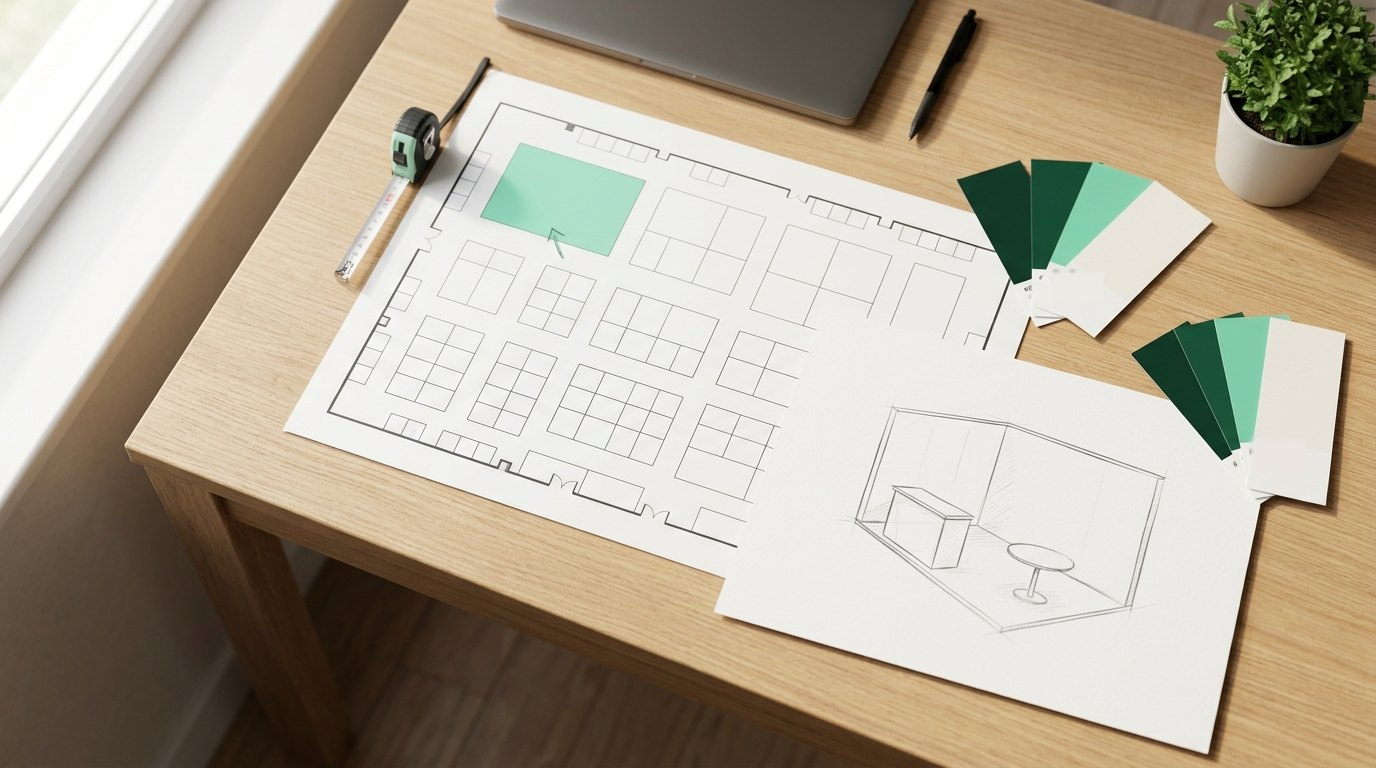
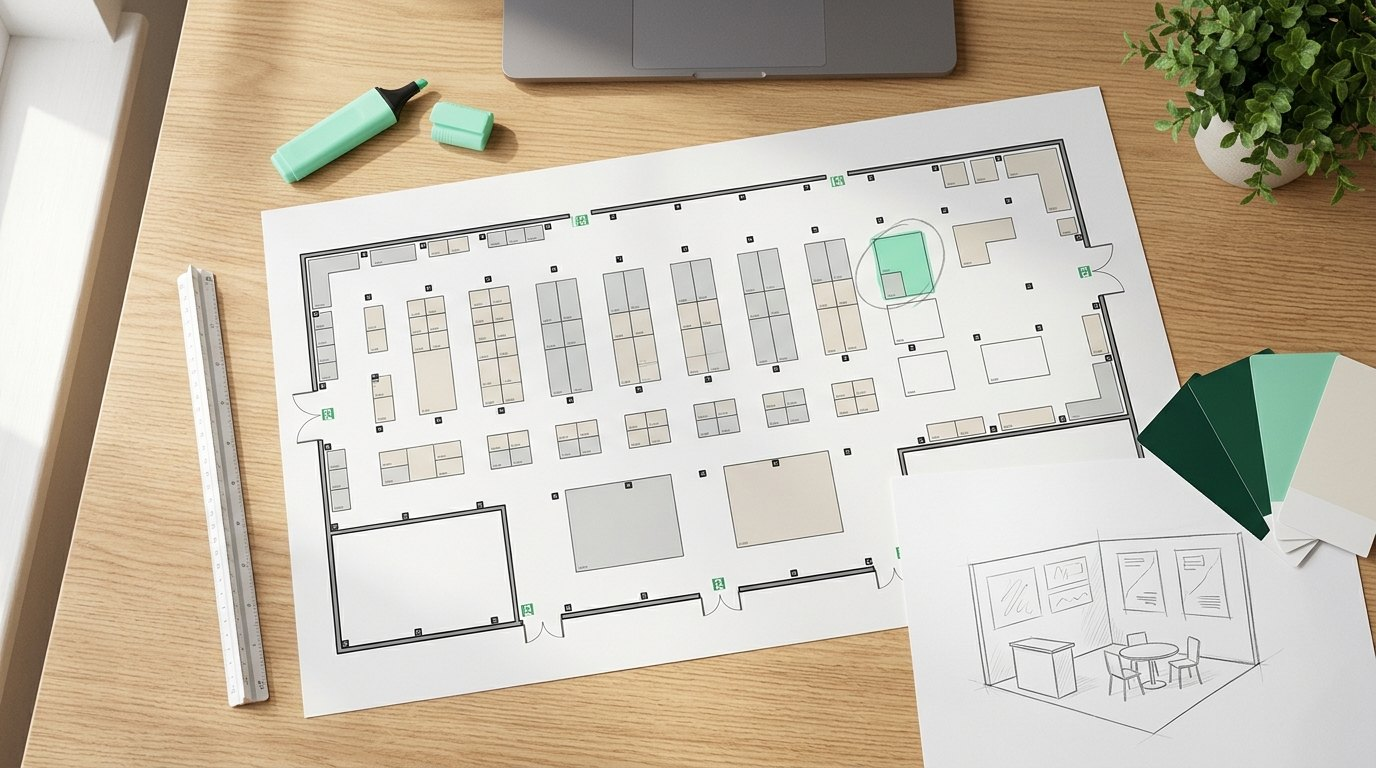
Brief guide: realistic hall plan image
Claude-Session: https://claude.ai/code/session_01B97nPoqq1BTtbztXedy2HT

diff --git a/guide-stand-brief.html b/guide-stand-brief.html
@@ -131,7 +131,7 @@ a:focus-visible,button:focus-visible,input:focus-visible{outline:2px solid #1370
 <article style="display: flex; flex-direction: column; gap: 32px; font-size: 18px; line-height: 1.7; max-width: 760px">
 <div style="background: #FFFFFF; border: 1px solid #E6E0D6; padding: 24px 28px"><span style="font-size: 12px; letter-spacing: .08em; font-weight: 700; color: #13704D">KEY TAKEAWAYS</span><ul style="margin: 12px 0 0; padding-left: 20px; display: flex; flex-direction: column; gap: 6px; font-size: 17px"><li>For a first quote, four things are enough: the fair, the stand size, the open sides and your&nbsp;email.</li><li>A good brief explains what visitors should do at your stand, not only what it should look&nbsp;like.</li><li>Share a budget range. It does not raise the price, it lets the design fit what you want to&nbsp;spend.</li><li>Send the organiser's floor plan and technical guidelines early. They decide what can be&nbsp;built.</li></ul></div>
 <section id="minimum" style="scroll-margin-top: 24px; display: flex; flex-direction: column; gap: 16px"><h2 style="margin: 0; font-size: 32px; line-height: 1.1; letter-spacing: -0.02em; font-weight: 600">What we need for a first&nbsp;quote</h2><p style="margin: 0">You don't need a finished brief to get started. With these four details we can check your space and come back with a first design and&nbsp;price:</p><div class="g2" style="display: grid; grid-template-columns: 1fr 1fr; gap: 12px"><div class="rv" style="background: #FFFFFF; border: 1px solid #D8D1C5; padding: 18px 20px; display: flex; flex-direction: column; gap: 4px"><svg class="bf-ic" viewBox="0 0 32 32" fill="none" stroke="currentColor" stroke-width="2" stroke-linejoin="round"><path d="M4 28V12l12-7 12 7v16z"/><path d="M11 28v-8h10v8"/></svg><span style="font-size: 13px; font-weight: 700; color: #13704D">01</span><b style="font-size: 17px">Fair and city</b><span style="font-size: 15px; line-height: 1.5; color: #5B5650">e.g. Hannover Messe,&nbsp;Hannover</span></div><div class="rv" style="background: #FFFFFF; border: 1px solid #D8D1C5; padding: 18px 20px; display: flex; flex-direction: column; gap: 4px"><svg class="bf-ic" viewBox="0 0 32 32" fill="none" stroke="currentColor" stroke-width="2" stroke-linejoin="round"><rect x="3" y="11" width="26" height="10" rx="1"/><path d="M8 11v4M13 11v6M18 11v4M23 11v6"/></svg><span style="font-size: 13px; font-weight: 700; color: #13704D">02</span><b style="font-size: 17px">Stand size</b><span style="font-size: 15px; line-height: 1.5; color: #5B5650">in m², e.g. 6 × 8&nbsp;m</span></div><div class="rv" style="background: #FFFFFF; border: 1px solid #D8D1C5; padding: 18px 20px; display: flex; flex-direction: column; gap: 4px"><svg class="bf-ic" viewBox="0 0 32 32" fill="none" stroke="currentColor" stroke-width="2" stroke-linecap="round" stroke-linejoin="round"><rect x="9" y="9" width="14" height="14" fill="#BDECD7" stroke="none"/><path d="M9 23V9h14" stroke="#1C1A17" stroke-width="3"/><path d="M16 31v-5M13.5 28.5 16 26l2.5 2.5M31 16h-5M28.5 13.5 26 16l2.5 2.5"/></svg><span style="font-size: 13px; font-weight: 700; color: #13704D">03</span><b style="font-size: 17px">Open sides</b><span style="font-size: 15px; line-height: 1.5; color: #5B5650">or simply the floor plan from your booking. <a href="guide-stand-brief.html" style="color: #13704D; font-weight: 600">What are open&nbsp;sides?</a></span></div><div class="rv" style="background: #FFFFFF; border: 1px solid #D8D1C5; padding: 18px 20px; display: flex; flex-direction: column; gap: 4px"><svg class="bf-ic" viewBox="0 0 32 32" fill="none" stroke="currentColor" stroke-width="2" stroke-linejoin="round"><rect x="3" y="7" width="26" height="18" rx="1"/><path d="M3 8l13 10 13-10"/></svg><span style="font-size: 13px; font-weight: 700; color: #13704D">04</span><b style="font-size: 17px">Your email</b><span style="font-size: 15px; line-height: 1.5; color: #5B5650">so we can send you the design and&nbsp;price</span></div></div><p style="margin: 0">Everything below makes the first design closer to what you have in mind, so fewer rounds of changes are needed. Missing details are fine. We sort them out&nbsp;together.</p></section>
-<section id="brief" style="scroll-margin-top: 24px; display: flex; flex-direction: column; gap: 16px; padding-top: 40px; border-top: 1px solid #D8D1C5"><h2 style="margin: 0; font-size: 32px; line-height: 1.1; letter-spacing: -0.02em; font-weight: 600">The full brief, step by&nbsp;step</h2><p style="margin: 0">A complete brief covers six areas. You can send them in any order, in an email, a document or a short&nbsp;call.</p><figure class="rv" style="margin: 0; display: flex; flex-direction: column; gap: 8px"><img src="img/guide-brief-desk.jpg" alt="Planning desk with a trade fair floor plan, a pencil sketch of a stand and brand colour swatches" width="1376" height="768" loading="lazy" style="display: block; width: 100%; height: auto; aspect-ratio: 16 / 8; object-fit: cover"><figcaption style="font-size: 14px; color: #5B5650">Floor plan, a clear goal and your brand colours: the start of a good&nbsp;brief.</figcaption></figure><div style="display: flex; flex-direction: column; gap: 12px"><div class="rv" style="background: #FFFFFF; border: 1px solid #D8D1C5; padding: 22px 24px; display: flex; flex-direction: column; gap: 12px"><div style="display: flex; gap: 14px; align-items: baseline"><span style="flex: none; width: 32px; height: 32px; border-radius: 50%; border: 1.5px solid #1C1A17; display: inline-flex; align-items: center; justify-content: center; font-size: 15px; font-weight: 600">1</span><span style="display: flex; flex-direction: column"><b style="font-size: 20px; line-height: 1.3">The fair and your&nbsp;space</b><span style="font-size: 15px; color: #5B5650">Where and when, and what the organiser&nbsp;allows.</span></span></div><div style="padding-left: 46px"><ul style="margin: 0; padding: 0; list-style: none; display: flex; flex-direction: column; gap: 10px; font-size: 16px; line-height: 1.55"><li style="display: flex; gap: 10px; align-items: flex-start"><svg width="18" height="18" viewBox="0 0 24 24" aria-hidden="true" style="flex: none; margin-top: 5px"><circle cx="12" cy="12" r="11" fill="#13704D"/><path d="M7 12.5l3.2 3.2L17 9" fill="none" stroke="#FFFFFF" stroke-width="2.4" stroke-linecap="round" stroke-linejoin="round"/></svg><span>Fair name, city and dates, plus the build-up and dismantling&nbsp;days</span></li><li style="display: flex; gap: 10px; align-items: flex-start"><svg width="18" height="18" viewBox="0 0 24 24" aria-hidden="true" style="flex: none; margin-top: 5px"><circle cx="12" cy="12" r="11" fill="#13704D"/><path d="M7 12.5l3.2 3.2L17 9" fill="none" stroke="#FFFFFF" stroke-width="2.4" stroke-linecap="round" stroke-linejoin="round"/></svg><span>Hall and stand&nbsp;number</span></li><li style="display: flex; gap: 10px; align-items: flex-start"><svg width="18" height="18" viewBox="0 0 24 24" aria-hidden="true" style="flex: none; margin-top: 5px"><circle cx="12" cy="12" r="11" fill="#13704D"/><path d="M7 12.5l3.2 3.2L17 9" fill="none" stroke="#FFFFFF" stroke-width="2.4" stroke-linecap="round" stroke-linejoin="round"/></svg><span>Stand size and open sides, or the floor plan from your&nbsp;booking</span></li><li style="display: flex; gap: 10px; align-items: flex-start"><svg width="18" height="18" viewBox="0 0 24 24" aria-hidden="true" style="flex: none; margin-top: 5px"><circle cx="12" cy="12" r="11" fill="#13704D"/><path d="M7 12.5l3.2 3.2L17 9" fill="none" stroke="#FFFFFF" stroke-width="2.4" stroke-linecap="round" stroke-linejoin="round"/></svg><span>The organiser's technical guidelines: maximum height, hanging points, pillars and approval&nbsp;deadlines</span></li></ul></div></div><div class="rv" style="background: #FFFFFF; border: 1px solid #D8D1C5; padding: 22px 24px; display: flex; flex-direction: column; gap: 12px"><div style="display: flex; gap: 14px; align-items: baseline"><span style="flex: none; width: 32px; height: 32px; border-radius: 50%; border: 1.5px solid #1C1A17; display: inline-flex; align-items: center; justify-content: center; font-size: 15px; font-weight: 600">2</span><span style="display: flex; flex-direction: column"><b style="font-size: 20px; line-height: 1.3">What the stand should&nbsp;do</b><span style="font-size: 15px; color: #5B5650">The most important part of the&nbsp;brief.</span></span></div><div style="padding-left: 46px"><ul style="margin: 0; padding: 0; list-style: none; display: flex; flex-direction: column; gap: 10px; font-size: 16px; line-height: 1.55"><li style="display: flex; gap: 10px; align-items: flex-start"><svg width="18" height="18" viewBox="0 0 24 24" aria-hidden="true" style="flex: none; margin-top: 5px"><circle cx="12" cy="12" r="11" fill="#13704D"/><path d="M7 12.5l3.2 3.2L17 9" fill="none" stroke="#FFFFFF" stroke-width="2.4" stroke-linecap="round" stroke-linejoin="round"/></svg><span>Who you want to reach: existing clients, new leads, distributors or&nbsp;press</span></li><li style="display: flex; gap: 10px; align-items: flex-start"><svg width="18" height="18" viewBox="0 0 24 24" aria-hidden="true" style="flex: none; margin-top: 5px"><circle cx="12" cy="12" r="11" fill="#13704D"/><path d="M7 12.5l3.2 3.2L17 9" fill="none" stroke="#FFFFFF" stroke-width="2.4" stroke-linecap="round" stroke-linejoin="round"/></svg><span>What visitors should do: book a meeting, try a product, watch a demo, leave their&nbsp;details</span></li><li style="display: flex; gap: 10px; align-items: flex-start"><svg width="18" height="18" viewBox="0 0 24 24" aria-hidden="true" style="flex: none; margin-top: 5px"><circle cx="12" cy="12" r="11" fill="#13704D"/><path d="M7 12.5l3.2 3.2L17 9" fill="none" stroke="#FFFFFF" stroke-width="2.4" stroke-linecap="round" stroke-linejoin="round"/></svg><span>One or two things visitors should remember after they&nbsp;leave</span></li><li style="display: flex; gap: 10px; align-items: flex-start"><svg width="18" height="18" viewBox="0 0 24 24" aria-hidden="true" style="flex: none; margin-top: 5px"><circle cx="12" cy="12" r="11" fill="#13704D"/><path d="M7 12.5l3.2 3.2L17 9" fill="none" stroke="#FFFFFF" stroke-width="2.4" stroke-linecap="round" stroke-linejoin="round"/></svg><span>How many people will work on the stand at the same&nbsp;time</span></li></ul></div></div><div class="rv" style="background: #FFFFFF; border: 1px solid #D8D1C5; padding: 22px 24px; display: flex; flex-direction: column; gap: 12px"><div style="display: flex; gap: 14px; align-items: baseline"><span style="flex: none; width: 32px; height: 32px; border-radius: 50%; border: 1.5px solid #1C1A17; display: inline-flex; align-items: center; justify-content: center; font-size: 15px; font-weight: 600">3</span><span style="display: flex; flex-direction: column"><b style="font-size: 20px; line-height: 1.3">What the stand must&nbsp;hold</b><span style="font-size: 15px; color: #5B5650">The practical&nbsp;list.</span></span></div><div style="padding-left: 46px"><ul style="margin: 0; padding: 0; list-style: none; display: flex; flex-direction: column; gap: 10px; font-size: 16px; line-height: 1.55"><li style="display: flex; gap: 10px; align-items: flex-start"><svg width="18" height="18" viewBox="0 0 24 24" aria-hidden="true" style="flex: none; margin-top: 5px"><circle cx="12" cy="12" r="11" fill="#13704D"/><path d="M7 12.5l3.2 3.2L17 9" fill="none" stroke="#FFFFFF" stroke-width="2.4" stroke-linecap="round" stroke-linejoin="round"/></svg><span>Products to show, with sizes and weights, especially heavy or large&nbsp;ones</span></li><li style="display: flex; gap: 10px; align-items: flex-start"><svg width="18" height="18" viewBox="0 0 24 24" aria-hidden="true" style="flex: none; margin-top: 5px"><circle cx="12" cy="12" r="11" fill="#13704D"/><path d="M7 12.5l3.2 3.2L17 9" fill="none" stroke="#FFFFFF" stroke-width="2.4" stroke-linecap="round" stroke-linejoin="round"/></svg><span>Screens, counters, shelves or display&nbsp;cases</span></li><li style="display: flex; gap: 10px; align-items: flex-start"><svg width="18" height="18" viewBox="0 0 24 24" aria-hidden="true" style="flex: none; margin-top: 5px"><circle cx="12" cy="12" r="11" fill="#13704D"/><path d="M7 12.5l3.2 3.2L17 9" fill="none" stroke="#FFFFFF" stroke-width="2.4" stroke-linecap="round" stroke-linejoin="round"/></svg><span>Meeting area: open tables or a closed room, and for how many&nbsp;people</span></li><li style="display: flex; gap: 10px; align-items: flex-start"><svg width="18" height="18" viewBox="0 0 24 24" aria-hidden="true" style="flex: none; margin-top: 5px"><circle cx="12" cy="12" r="11" fill="#13704D"/><path d="M7 12.5l3.2 3.2L17 9" fill="none" stroke="#FFFFFF" stroke-width="2.4" stroke-linecap="round" stroke-linejoin="round"/></svg><span>Storage room, coat space, a small kitchen or a&nbsp;bar</span></li></ul></div></div><div class="rv" style="background: #FFFFFF; border: 1px solid #D8D1C5; padding: 22px 24px; display: flex; flex-direction: column; gap: 12px"><div style="display: flex; gap: 14px; align-items: baseline"><span style="flex: none; width: 32px; height: 32px; border-radius: 50%; border: 1.5px solid #1C1A17; display: inline-flex; align-items: center; justify-content: center; font-size: 15px; font-weight: 600">4</span><span style="display: flex; flex-direction: column"><b style="font-size: 20px; line-height: 1.3">Your&nbsp;brand</b><span style="font-size: 15px; color: #5B5650">So the stand looks like&nbsp;you.</span></span></div><div style="padding-left: 46px"><ul style="margin: 0; padding: 0; list-style: none; display: flex; flex-direction: column; gap: 10px; font-size: 16px; line-height: 1.55"><li style="display: flex; gap: 10px; align-items: flex-start"><svg width="18" height="18" viewBox="0 0 24 24" aria-hidden="true" style="flex: none; margin-top: 5px"><circle cx="12" cy="12" r="11" fill="#13704D"/><path d="M7 12.5l3.2 3.2L17 9" fill="none" stroke="#FFFFFF" stroke-width="2.4" stroke-linecap="round" stroke-linejoin="round"/></svg><span>Logo as a vector file (AI, EPS, SVG or&nbsp;PDF)</span></li><li style="display: flex; gap: 10px; align-items: flex-start"><svg width="18" height="18" viewBox="0 0 24 24" aria-hidden="true" style="flex: none; margin-top: 5px"><circle cx="12" cy="12" r="11" fill="#13704D"/><path d="M7 12.5l3.2 3.2L17 9" fill="none" stroke="#FFFFFF" stroke-width="2.4" stroke-linecap="round" stroke-linejoin="round"/></svg><span>Brand guidelines with colours and&nbsp;fonts</span></li><li style="display: flex; gap: 10px; align-items: flex-start"><svg width="18" height="18" viewBox="0 0 24 24" aria-hidden="true" style="flex: none; margin-top: 5px"><circle cx="12" cy="12" r="11" fill="#13704D"/><path d="M7 12.5l3.2 3.2L17 9" fill="none" stroke="#FFFFFF" stroke-width="2.4" stroke-linecap="round" stroke-linejoin="round"/></svg><span>Photos and key messages you want on the&nbsp;walls</span></li><li style="display: flex; gap: 10px; align-items: flex-start"><svg width="18" height="18" viewBox="0 0 24 24" aria-hidden="true" style="flex: none; margin-top: 5px"><circle cx="12" cy="12" r="11" fill="#13704D"/><path d="M7 12.5l3.2 3.2L17 9" fill="none" stroke="#FFFFFF" stroke-width="2.4" stroke-linecap="round" stroke-linejoin="round"/></svg><span>Photos of past stands, with what you liked and what you&nbsp;didn't</span></li></ul></div></div><div class="rv" style="background: #FFFFFF; border: 1px solid #D8D1C5; padding: 22px 24px; display: flex; flex-direction: column; gap: 12px"><div style="display: flex; gap: 14px; align-items: baseline"><span style="flex: none; width: 32px; height: 32px; border-radius: 50%; border: 1.5px solid #1C1A17; display: inline-flex; align-items: center; justify-content: center; font-size: 15px; font-weight: 600">5</span><span style="display: flex; flex-direction: column"><b style="font-size: 20px; line-height: 1.3">Budget</b><span style="font-size: 15px; color: #5B5650">A range is&nbsp;enough.</span></span></div><div style="padding-left: 46px"><ul style="margin: 0; padding: 0; list-style: none; display: flex; flex-direction: column; gap: 10px; font-size: 16px; line-height: 1.55"><li style="display: flex; gap: 10px; align-items: flex-start"><svg width="18" height="18" viewBox="0 0 24 24" aria-hidden="true" style="flex: none; margin-top: 5px"><circle cx="12" cy="12" r="11" fill="#13704D"/><path d="M7 12.5l3.2 3.2L17 9" fill="none" stroke="#FFFFFF" stroke-width="2.4" stroke-linecap="round" stroke-linejoin="round"/></svg><span>A budget range for the whole&nbsp;stand</span></li><li style="display: flex; gap: 10px; align-items: flex-start"><svg width="18" height="18" viewBox="0 0 24 24" aria-hidden="true" style="flex: none; margin-top: 5px"><circle cx="12" cy="12" r="11" fill="#13704D"/><path d="M7 12.5l3.2 3.2L17 9" fill="none" stroke="#FFFFFF" stroke-width="2.4" stroke-linecap="round" stroke-linejoin="round"/></svg><span>What it should cover, for example design, build, graphics, transport and&nbsp;furniture</span></li></ul></div></div><div class="rv" style="background: #FFFFFF; border: 1px solid #D8D1C5; padding: 22px 24px; display: flex; flex-direction: column; gap: 12px"><div style="display: flex; gap: 14px; align-items: baseline"><span style="flex: none; width: 32px; height: 32px; border-radius: 50%; border: 1.5px solid #1C1A17; display: inline-flex; align-items: center; justify-content: center; font-size: 15px; font-weight: 600">6</span><span style="display: flex; flex-direction: column"><b style="font-size: 20px; line-height: 1.3">Dates and&nbsp;decisions</b><span style="font-size: 15px; color: #5B5650">So nothing is&nbsp;late.</span></span></div><div style="padding-left: 46px"><ul style="margin: 0; padding: 0; list-style: none; display: flex; flex-direction: column; gap: 10px; font-size: 16px; line-height: 1.55"><li style="display: flex; gap: 10px; align-items: flex-start"><svg width="18" height="18" viewBox="0 0 24 24" aria-hidden="true" style="flex: none; margin-top: 5px"><circle cx="12" cy="12" r="11" fill="#13704D"/><path d="M7 12.5l3.2 3.2L17 9" fill="none" stroke="#FFFFFF" stroke-width="2.4" stroke-linecap="round" stroke-linejoin="round"/></svg><span>When you need the first&nbsp;design</span></li><li style="display: flex; gap: 10px; align-items: flex-start"><svg width="18" height="18" viewBox="0 0 24 24" aria-hidden="true" style="flex: none; margin-top: 5px"><circle cx="12" cy="12" r="11" fill="#13704D"/><path d="M7 12.5l3.2 3.2L17 9" fill="none" stroke="#FFFFFF" stroke-width="2.4" stroke-linecap="round" stroke-linejoin="round"/></svg><span>Who approves the design on your&nbsp;side</span></li><li style="display: flex; gap: 10px; align-items: flex-start"><svg width="18" height="18" viewBox="0 0 24 24" aria-hidden="true" style="flex: none; margin-top: 5px"><circle cx="12" cy="12" r="11" fill="#13704D"/><path d="M7 12.5l3.2 3.2L17 9" fill="none" stroke="#FFFFFF" stroke-width="2.4" stroke-linecap="round" stroke-linejoin="round"/></svg><span>Organiser deadlines for stand drawings, electrical orders and other&nbsp;services</span></li></ul></div></div></div></section>
+<section id="brief" style="scroll-margin-top: 24px; display: flex; flex-direction: column; gap: 16px; padding-top: 40px; border-top: 1px solid #D8D1C5"><h2 style="margin: 0; font-size: 32px; line-height: 1.1; letter-spacing: -0.02em; font-weight: 600">The full brief, step by&nbsp;step</h2><p style="margin: 0">A complete brief covers six areas. You can send them in any order, in an email, a document or a short&nbsp;call.</p><figure class="rv" style="margin: 0; display: flex; flex-direction: column; gap: 8px"><img src="img/guide-brief-desk.jpg" alt="Planning desk with a printed trade fair hall plan, a marked corner stand, a pencil sketch of the stand and brand colour swatches" width="1376" height="768" loading="lazy" style="display: block; width: 100%; height: auto; aspect-ratio: 16 / 8; object-fit: cover"><figcaption style="font-size: 14px; color: #5B5650">Floor plan, a clear goal and your brand colours: the start of a good&nbsp;brief.</figcaption></figure><div style="display: flex; flex-direction: column; gap: 12px"><div class="rv" style="background: #FFFFFF; border: 1px solid #D8D1C5; padding: 22px 24px; display: flex; flex-direction: column; gap: 12px"><div style="display: flex; gap: 14px; align-items: baseline"><span style="flex: none; width: 32px; height: 32px; border-radius: 50%; border: 1.5px solid #1C1A17; display: inline-flex; align-items: center; justify-content: center; font-size: 15px; font-weight: 600">1</span><span style="display: flex; flex-direction: column"><b style="font-size: 20px; line-height: 1.3">The fair and your&nbsp;space</b><span style="font-size: 15px; color: #5B5650">Where and when, and what the organiser&nbsp;allows.</span></span></div><div style="padding-left: 46px"><ul style="margin: 0; padding: 0; list-style: none; display: flex; flex-direction: column; gap: 10px; font-size: 16px; line-height: 1.55"><li style="display: flex; gap: 10px; align-items: flex-start"><svg width="18" height="18" viewBox="0 0 24 24" aria-hidden="true" style="flex: none; margin-top: 5px"><circle cx="12" cy="12" r="11" fill="#13704D"/><path d="M7 12.5l3.2 3.2L17 9" fill="none" stroke="#FFFFFF" stroke-width="2.4" stroke-linecap="round" stroke-linejoin="round"/></svg><span>Fair name, city and dates, plus the build-up and dismantling&nbsp;days</span></li><li style="display: flex; gap: 10px; align-items: flex-start"><svg width="18" height="18" viewBox="0 0 24 24" aria-hidden="true" style="flex: none; margin-top: 5px"><circle cx="12" cy="12" r="11" fill="#13704D"/><path d="M7 12.5l3.2 3.2L17 9" fill="none" stroke="#FFFFFF" stroke-width="2.4" stroke-linecap="round" stroke-linejoin="round"/></svg><span>Hall and stand&nbsp;number</span></li><li style="display: flex; gap: 10px; align-items: flex-start"><svg width="18" height="18" viewBox="0 0 24 24" aria-hidden="true" style="flex: none; margin-top: 5px"><circle cx="12" cy="12" r="11" fill="#13704D"/><path d="M7 12.5l3.2 3.2L17 9" fill="none" stroke="#FFFFFF" stroke-width="2.4" stroke-linecap="round" stroke-linejoin="round"/></svg><span>Stand size and open sides, or the floor plan from your&nbsp;booking</span></li><li style="display: flex; gap: 10px; align-items: flex-start"><svg width="18" height="18" viewBox="0 0 24 24" aria-hidden="true" style="flex: none; margin-top: 5px"><circle cx="12" cy="12" r="11" fill="#13704D"/><path d="M7 12.5l3.2 3.2L17 9" fill="none" stroke="#FFFFFF" stroke-width="2.4" stroke-linecap="round" stroke-linejoin="round"/></svg><span>The organiser's technical guidelines: maximum height, hanging points, pillars and approval&nbsp;deadlines</span></li></ul></div></div><div class="rv" style="background: #FFFFFF; border: 1px solid #D8D1C5; padding: 22px 24px; display: flex; flex-direction: column; gap: 12px"><div style="display: flex; gap: 14px; align-items: baseline"><span style="flex: none; width: 32px; height: 32px; border-radius: 50%; border: 1.5px solid #1C1A17; display: inline-flex; align-items: center; justify-content: center; font-size: 15px; font-weight: 600">2</span><span style="display: flex; flex-direction: column"><b style="font-size: 20px; line-height: 1.3">What the stand should&nbsp;do</b><span style="font-size: 15px; color: #5B5650">The most important part of the&nbsp;brief.</span></span></div><div style="padding-left: 46px"><ul style="margin: 0; padding: 0; list-style: none; display: flex; flex-direction: column; gap: 10px; font-size: 16px; line-height: 1.55"><li style="display: flex; gap: 10px; align-items: flex-start"><svg width="18" height="18" viewBox="0 0 24 24" aria-hidden="true" style="flex: none; margin-top: 5px"><circle cx="12" cy="12" r="11" fill="#13704D"/><path d="M7 12.5l3.2 3.2L17 9" fill="none" stroke="#FFFFFF" stroke-width="2.4" stroke-linecap="round" stroke-linejoin="round"/></svg><span>Who you want to reach: existing clients, new leads, distributors or&nbsp;press</span></li><li style="display: flex; gap: 10px; align-items: flex-start"><svg width="18" height="18" viewBox="0 0 24 24" aria-hidden="true" style="flex: none; margin-top: 5px"><circle cx="12" cy="12" r="11" fill="#13704D"/><path d="M7 12.5l3.2 3.2L17 9" fill="none" stroke="#FFFFFF" stroke-width="2.4" stroke-linecap="round" stroke-linejoin="round"/></svg><span>What visitors should do: book a meeting, try a product, watch a demo, leave their&nbsp;details</span></li><li style="display: flex; gap: 10px; align-items: flex-start"><svg width="18" height="18" viewBox="0 0 24 24" aria-hidden="true" style="flex: none; margin-top: 5px"><circle cx="12" cy="12" r="11" fill="#13704D"/><path d="M7 12.5l3.2 3.2L17 9" fill="none" stroke="#FFFFFF" stroke-width="2.4" stroke-linecap="round" stroke-linejoin="round"/></svg><span>One or two things visitors should remember after they&nbsp;leave</span></li><li style="display: flex; gap: 10px; align-items: flex-start"><svg width="18" height="18" viewBox="0 0 24 24" aria-hidden="true" style="flex: none; margin-top: 5px"><circle cx="12" cy="12" r="11" fill="#13704D"/><path d="M7 12.5l3.2 3.2L17 9" fill="none" stroke="#FFFFFF" stroke-width="2.4" stroke-linecap="round" stroke-linejoin="round"/></svg><span>How many people will work on the stand at the same&nbsp;time</span></li></ul></div></div><div class="rv" style="background: #FFFFFF; border: 1px solid #D8D1C5; padding: 22px 24px; display: flex; flex-direction: column; gap: 12px"><div style="display: flex; gap: 14px; align-items: baseline"><span style="flex: none; width: 32px; height: 32px; border-radius: 50%; border: 1.5px solid #1C1A17; display: inline-flex; align-items: center; justify-content: center; font-size: 15px; font-weight: 600">3</span><span style="display: flex; flex-direction: column"><b style="font-size: 20px; line-height: 1.3">What the stand must&nbsp;hold</b><span style="font-size: 15px; color: #5B5650">The practical&nbsp;list.</span></span></div><div style="padding-left: 46px"><ul style="margin: 0; padding: 0; list-style: none; display: flex; flex-direction: column; gap: 10px; font-size: 16px; line-height: 1.55"><li style="display: flex; gap: 10px; align-items: flex-start"><svg width="18" height="18" viewBox="0 0 24 24" aria-hidden="true" style="flex: none; margin-top: 5px"><circle cx="12" cy="12" r="11" fill="#13704D"/><path d="M7 12.5l3.2 3.2L17 9" fill="none" stroke="#FFFFFF" stroke-width="2.4" stroke-linecap="round" stroke-linejoin="round"/></svg><span>Products to show, with sizes and weights, especially heavy or large&nbsp;ones</span></li><li style="display: flex; gap: 10px; align-items: flex-start"><svg width="18" height="18" viewBox="0 0 24 24" aria-hidden="true" style="flex: none; margin-top: 5px"><circle cx="12" cy="12" r="11" fill="#13704D"/><path d="M7 12.5l3.2 3.2L17 9" fill="none" stroke="#FFFFFF" stroke-width="2.4" stroke-linecap="round" stroke-linejoin="round"/></svg><span>Screens, counters, shelves or display&nbsp;cases</span></li><li style="display: flex; gap: 10px; align-items: flex-start"><svg width="18" height="18" viewBox="0 0 24 24" aria-hidden="true" style="flex: none; margin-top: 5px"><circle cx="12" cy="12" r="11" fill="#13704D"/><path d="M7 12.5l3.2 3.2L17 9" fill="none" stroke="#FFFFFF" stroke-width="2.4" stroke-linecap="round" stroke-linejoin="round"/></svg><span>Meeting area: open tables or a closed room, and for how many&nbsp;people</span></li><li style="display: flex; gap: 10px; align-items: flex-start"><svg width="18" height="18" viewBox="0 0 24 24" aria-hidden="true" style="flex: none; margin-top: 5px"><circle cx="12" cy="12" r="11" fill="#13704D"/><path d="M7 12.5l3.2 3.2L17 9" fill="none" stroke="#FFFFFF" stroke-width="2.4" stroke-linecap="round" stroke-linejoin="round"/></svg><span>Storage room, coat space, a small kitchen or a&nbsp;bar</span></li></ul></div></div><div class="rv" style="background: #FFFFFF; border: 1px solid #D8D1C5; padding: 22px 24px; display: flex; flex-direction: column; gap: 12px"><div style="display: flex; gap: 14px; align-items: baseline"><span style="flex: none; width: 32px; height: 32px; border-radius: 50%; border: 1.5px solid #1C1A17; display: inline-flex; align-items: center; justify-content: center; font-size: 15px; font-weight: 600">4</span><span style="display: flex; flex-direction: column"><b style="font-size: 20px; line-height: 1.3">Your&nbsp;brand</b><span style="font-size: 15px; color: #5B5650">So the stand looks like&nbsp;you.</span></span></div><div style="padding-left: 46px"><ul style="margin: 0; padding: 0; list-style: none; display: flex; flex-direction: column; gap: 10px; font-size: 16px; line-height: 1.55"><li style="display: flex; gap: 10px; align-items: flex-start"><svg width="18" height="18" viewBox="0 0 24 24" aria-hidden="true" style="flex: none; margin-top: 5px"><circle cx="12" cy="12" r="11" fill="#13704D"/><path d="M7 12.5l3.2 3.2L17 9" fill="none" stroke="#FFFFFF" stroke-width="2.4" stroke-linecap="round" stroke-linejoin="round"/></svg><span>Logo as a vector file (AI, EPS, SVG or&nbsp;PDF)</span></li><li style="display: flex; gap: 10px; align-items: flex-start"><svg width="18" height="18" viewBox="0 0 24 24" aria-hidden="true" style="flex: none; margin-top: 5px"><circle cx="12" cy="12" r="11" fill="#13704D"/><path d="M7 12.5l3.2 3.2L17 9" fill="none" stroke="#FFFFFF" stroke-width="2.4" stroke-linecap="round" stroke-linejoin="round"/></svg><span>Brand guidelines with colours and&nbsp;fonts</span></li><li style="display: flex; gap: 10px; align-items: flex-start"><svg width="18" height="18" viewBox="0 0 24 24" aria-hidden="true" style="flex: none; margin-top: 5px"><circle cx="12" cy="12" r="11" fill="#13704D"/><path d="M7 12.5l3.2 3.2L17 9" fill="none" stroke="#FFFFFF" stroke-width="2.4" stroke-linecap="round" stroke-linejoin="round"/></svg><span>Photos and key messages you want on the&nbsp;walls</span></li><li style="display: flex; gap: 10px; align-items: flex-start"><svg width="18" height="18" viewBox="0 0 24 24" aria-hidden="true" style="flex: none; margin-top: 5px"><circle cx="12" cy="12" r="11" fill="#13704D"/><path d="M7 12.5l3.2 3.2L17 9" fill="none" stroke="#FFFFFF" stroke-width="2.4" stroke-linecap="round" stroke-linejoin="round"/></svg><span>Photos of past stands, with what you liked and what you&nbsp;didn't</span></li></ul></div></div><div class="rv" style="background: #FFFFFF; border: 1px solid #D8D1C5; padding: 22px 24px; display: flex; flex-direction: column; gap: 12px"><div style="display: flex; gap: 14px; align-items: baseline"><span style="flex: none; width: 32px; height: 32px; border-radius: 50%; border: 1.5px solid #1C1A17; display: inline-flex; align-items: center; justify-content: center; font-size: 15px; font-weight: 600">5</span><span style="display: flex; flex-direction: column"><b style="font-size: 20px; line-height: 1.3">Budget</b><span style="font-size: 15px; color: #5B5650">A range is&nbsp;enough.</span></span></div><div style="padding-left: 46px"><ul style="margin: 0; padding: 0; list-style: none; display: flex; flex-direction: column; gap: 10px; font-size: 16px; line-height: 1.55"><li style="display: flex; gap: 10px; align-items: flex-start"><svg width="18" height="18" viewBox="0 0 24 24" aria-hidden="true" style="flex: none; margin-top: 5px"><circle cx="12" cy="12" r="11" fill="#13704D"/><path d="M7 12.5l3.2 3.2L17 9" fill="none" stroke="#FFFFFF" stroke-width="2.4" stroke-linecap="round" stroke-linejoin="round"/></svg><span>A budget range for the whole&nbsp;stand</span></li><li style="display: flex; gap: 10px; align-items: flex-start"><svg width="18" height="18" viewBox="0 0 24 24" aria-hidden="true" style="flex: none; margin-top: 5px"><circle cx="12" cy="12" r="11" fill="#13704D"/><path d="M7 12.5l3.2 3.2L17 9" fill="none" stroke="#FFFFFF" stroke-width="2.4" stroke-linecap="round" stroke-linejoin="round"/></svg><span>What it should cover, for example design, build, graphics, transport and&nbsp;furniture</span></li></ul></div></div><div class="rv" style="background: #FFFFFF; border: 1px solid #D8D1C5; padding: 22px 24px; display: flex; flex-direction: column; gap: 12px"><div style="display: flex; gap: 14px; align-items: baseline"><span style="flex: none; width: 32px; height: 32px; border-radius: 50%; border: 1.5px solid #1C1A17; display: inline-flex; align-items: center; justify-content: center; font-size: 15px; font-weight: 600">6</span><span style="display: flex; flex-direction: column"><b style="font-size: 20px; line-height: 1.3">Dates and&nbsp;decisions</b><span style="font-size: 15px; color: #5B5650">So nothing is&nbsp;late.</span></span></div><div style="padding-left: 46px"><ul style="margin: 0; padding: 0; list-style: none; display: flex; flex-direction: column; gap: 10px; font-size: 16px; line-height: 1.55"><li style="display: flex; gap: 10px; align-items: flex-start"><svg width="18" height="18" viewBox="0 0 24 24" aria-hidden="true" style="flex: none; margin-top: 5px"><circle cx="12" cy="12" r="11" fill="#13704D"/><path d="M7 12.5l3.2 3.2L17 9" fill="none" stroke="#FFFFFF" stroke-width="2.4" stroke-linecap="round" stroke-linejoin="round"/></svg><span>When you need the first&nbsp;design</span></li><li style="display: flex; gap: 10px; align-items: flex-start"><svg width="18" height="18" viewBox="0 0 24 24" aria-hidden="true" style="flex: none; margin-top: 5px"><circle cx="12" cy="12" r="11" fill="#13704D"/><path d="M7 12.5l3.2 3.2L17 9" fill="none" stroke="#FFFFFF" stroke-width="2.4" stroke-linecap="round" stroke-linejoin="round"/></svg><span>Who approves the design on your&nbsp;side</span></li><li style="display: flex; gap: 10px; align-items: flex-start"><svg width="18" height="18" viewBox="0 0 24 24" aria-hidden="true" style="flex: none; margin-top: 5px"><circle cx="12" cy="12" r="11" fill="#13704D"/><path d="M7 12.5l3.2 3.2L17 9" fill="none" stroke="#FFFFFF" stroke-width="2.4" stroke-linecap="round" stroke-linejoin="round"/></svg><span>Organiser deadlines for stand drawings, electrical orders and other&nbsp;services</span></li></ul></div></div></div></section>
 <section id="files" style="scroll-margin-top: 24px; display: flex; flex-direction: column; gap: 16px; padding-top: 40px; border-top: 1px solid #D8D1C5"><h2 style="margin: 0; font-size: 32px; line-height: 1.1; letter-spacing: -0.02em; font-weight: 600">Files that&nbsp;help</h2><div style="overflow-x: auto"><table style="width: 100%; border-collapse: collapse; font-size: 16px; line-height: 1.5; background: #FFFFFF; border: 1px solid #E6E0D6"><thead><tr style="background: #0E3B2B; color: #FFFFFF; text-align: left"><th style="padding: 12px 14px">File</th><th style="padding: 12px 14px">Where you get it</th><th style="padding: 12px 14px">Why it helps</th></tr></thead><tbody><tr style="border-top: 1px solid #E6E0D6"><td style="padding: 12px 14px; font-weight: 600">Floor plan or hall&nbsp;plan</td><td style="padding: 12px 14px">Your stand proposal or confirmation from the&nbsp;organiser</td><td style="padding: 12px 14px">Shows size, open sides, pillars and&nbsp;neighbours</td></tr><tr style="border-top: 1px solid #E6E0D6"><td style="padding: 12px 14px; font-weight: 600">Technical&nbsp;guidelines</td><td style="padding: 12px 14px">The organiser's website or exhibitor&nbsp;area</td><td style="padding: 12px 14px">Sets heights, materials, rigging and&nbsp;deadlines</td></tr><tr style="border-top: 1px solid #E6E0D6"><td style="padding: 12px 14px; font-weight: 600">Logo&nbsp;(vector)</td><td style="padding: 12px 14px">Your marketing team or&nbsp;agency</td><td style="padding: 12px 14px">Prints sharp at any&nbsp;size</td></tr><tr style="border-top: 1px solid #E6E0D6"><td style="padding: 12px 14px; font-weight: 600">Brand&nbsp;guidelines</td><td style="padding: 12px 14px">Your marketing team or&nbsp;agency</td><td style="padding: 12px 14px">Correct colours and fonts on every&nbsp;wall</td></tr><tr style="border-top: 1px solid #E6E0D6"><td style="padding: 12px 14px; font-weight: 600">Product list with&nbsp;sizes</td><td style="padding: 12px 14px">Your product or sales&nbsp;team</td><td style="padding: 12px 14px">Plans space, shelves and&nbsp;load</td></tr><tr style="border-top: 1px solid #E6E0D6"><td style="padding: 12px 14px; font-weight: 600">Photos of past&nbsp;stands</td><td style="padding: 12px 14px">Your own&nbsp;archive</td><td style="padding: 12px 14px">Shows what worked and what to&nbsp;avoid</td></tr></tbody></table></div><p style="margin: 0; font-size: 15px; color: #5B5650">Only have a phone photo of the floor plan? That works for a first&nbsp;quote.</p></section>
 <section id="mistakes" style="scroll-margin-top: 24px; display: flex; flex-direction: column; gap: 16px; padding-top: 40px; border-top: 1px solid #D8D1C5"><h2 style="margin: 0; font-size: 32px; line-height: 1.1; letter-spacing: -0.02em; font-weight: 600">Common&nbsp;mistakes</h2><div class="g2" style="display: grid; grid-template-columns: 1fr 1fr; gap: 12px"><div class="rv" style="background: #FBF3E0; padding: 18px 20px; display: flex; gap: 12px; align-items: flex-start"><svg width="18" height="18" viewBox="0 0 24 24" aria-hidden="true" style="flex: none; margin-top: 5px"><circle cx="12" cy="12" r="10" fill="none" stroke="#8A6A1E" stroke-width="2"/><path d="M12 7v6M12 16.5v.5" stroke="#8A6A1E" stroke-width="2.4" stroke-linecap="round"/></svg><span style="display: flex; flex-direction: column; gap: 4px"><b style="font-size: 17px">No budget at&nbsp;all</b><span style="font-size: 16px; line-height: 1.55; color: #3F3B36">Without a range, the first design is a guess. It may be far above or below what you want to spend, and you lose a round of&nbsp;changes.</span></span></div><div class="rv" style="background: #FBF3E0; padding: 18px 20px; display: flex; gap: 12px; align-items: flex-start"><svg width="18" height="18" viewBox="0 0 24 24" aria-hidden="true" style="flex: none; margin-top: 5px"><circle cx="12" cy="12" r="10" fill="none" stroke="#8A6A1E" stroke-width="2"/><path d="M12 7v6M12 16.5v.5" stroke="#8A6A1E" stroke-width="2.4" stroke-linecap="round"/></svg><span style="display: flex; flex-direction: column; gap: 4px"><b style="font-size: 17px">Only a logo and "make it&nbsp;nice"</b><span style="font-size: 16px; line-height: 1.55; color: #3F3B36">The look is the easy part. What visitors should do at the stand decides the layout, so say&nbsp;it.</span></span></div><div class="rv" style="background: #FBF3E0; padding: 18px 20px; display: flex; gap: 12px; align-items: flex-start"><svg width="18" height="18" viewBox="0 0 24 24" aria-hidden="true" style="flex: none; margin-top: 5px"><circle cx="12" cy="12" r="10" fill="none" stroke="#8A6A1E" stroke-width="2"/><path d="M12 7v6M12 16.5v.5" stroke="#8A6A1E" stroke-width="2.4" stroke-linecap="round"/></svg><span style="display: flex; flex-direction: column; gap: 4px"><b style="font-size: 17px">Forgetting the organiser's&nbsp;deadlines</b><span style="font-size: 16px; line-height: 1.55; color: #3F3B36">Larger and special stands often need approved drawings weeks before build-up, and many fairs add a surcharge to service orders placed after the&nbsp;deadline.</span></span></div><div class="rv" style="background: #FBF3E0; padding: 18px 20px; display: flex; gap: 12px; align-items: flex-start"><svg width="18" height="18" viewBox="0 0 24 24" aria-hidden="true" style="flex: none; margin-top: 5px"><circle cx="12" cy="12" r="10" fill="none" stroke="#8A6A1E" stroke-width="2"/><path d="M12 7v6M12 16.5v.5" stroke="#8A6A1E" stroke-width="2.4" stroke-linecap="round"/></svg><span style="display: flex; flex-direction: column; gap: 4px"><b style="font-size: 17px">References without a&nbsp;reason</b><span style="font-size: 16px; line-height: 1.55; color: #3F3B36">A photo of a stand you like helps most when you say why: the colours, the openness, the meeting area or the&nbsp;lighting.</span></span></div></div></section>
 <section id="template" style="scroll-margin-top: 24px; display: flex; flex-direction: column; gap: 16px; padding-top: 40px; border-top: 1px solid #D8D1C5"><h2 style="margin: 0; font-size: 32px; line-height: 1.1; letter-spacing: -0.02em; font-weight: 600">Copy-paste brief&nbsp;template</h2><p style="margin: 0">Copy this into an email, fill in what you know and leave the rest&nbsp;blank.</p><div style="position: relative; background: #0E3B2B; color: #FFFFFF; padding: 24px 26px"><button type="button" id="cpy" style="position: absolute; top: 14px; right: 14px; min-height: 36px; padding: 0 14px; background: #5ED3A2; color: #12100E; border: none; font: 600 14px/1 'DM Sans', sans-serif; cursor: pointer">Copy</button><pre id="tpl" style="margin: 0; white-space: pre-wrap; font: 15px/1.7 ui-monospace, 'SFMono-Regular', Menlo, monospace; color: #FFFFFF">Fair: [name, city, dates]
